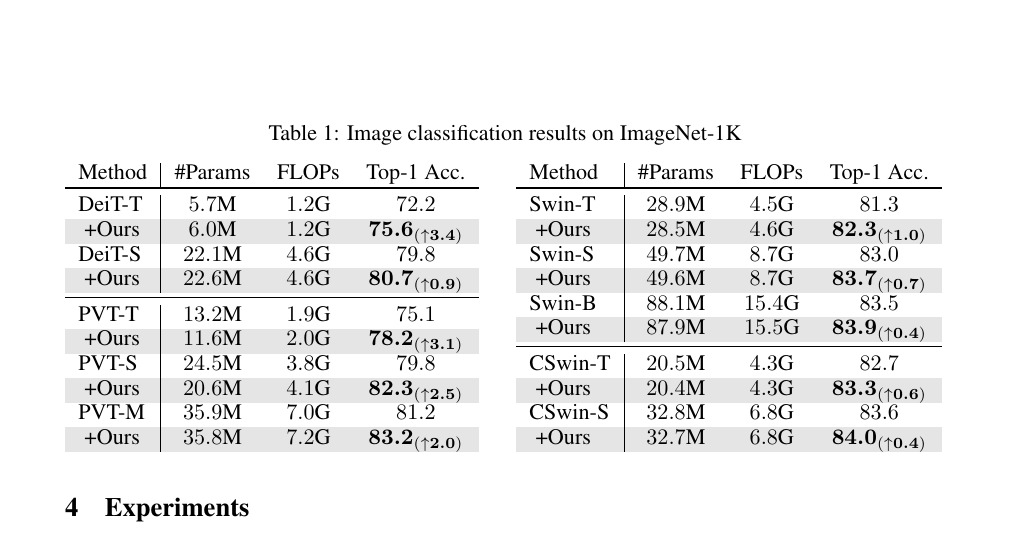
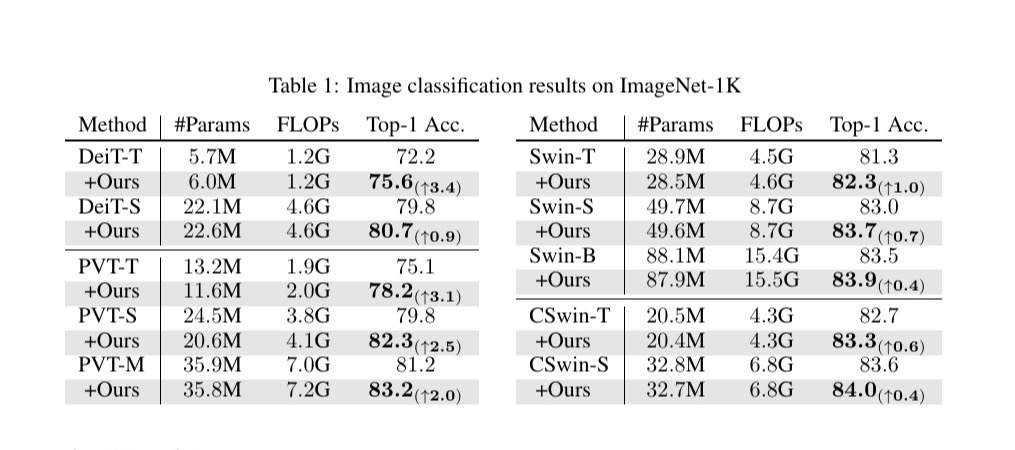
Merge research and selected publications

Changed region(s): [[0.0611, 0.1556, 0.9468, 0.9644]]

diff --git a/index.html b/index.html
@@ -20,7 +20,6 @@
                 <a href="#about">About</a>
                 <a href="#news">News</a>
                 <a href="#research">Research</a>
-                <a href="#publications">Publications</a>
                 <a href="#experience">Experience</a>
                 <a href="#education">Education</a>
                 <a href="#awards">Awards</a>
@@ -82,7 +81,10 @@
         </section>
 
         <section id="research" class="academic-section research-section" aria-labelledby="research-heading">
-            <h2 id="research-heading">Research</h2>
+            <div class="section-title-row">
+                <h2 id="research-heading">Research / Selected Publications</h2>
+                <a class="section-note" href="https://scholar.google.com/citations?user=i7L7Gd4AAAAJ&amp;hl=en" target="_blank" rel="noopener noreferrer">Full publication list → Google Scholar</a>
+            </div>
             <p class="research-overview">I work on robot learning and embodied intelligence, with an emphasis on grounding language and visual observations into robust, data-efficient robot policies.</p>
             <div class="research-list">
                 <article class="research-item">
@@ -150,13 +152,6 @@
                         <p class="research-links"><a href="https://arxiv.org/abs/2511.00833" target="_blank" rel="noopener noreferrer">Paper / arXiv</a><a href="https://neurips.cc/virtual/2025/loc/san-diego/poster/119578" target="_blank" rel="noopener noreferrer">NeurIPS</a></p>
                     </div>
                 </article>
-            </div>
-        </section>
-
-        <section id="publications" class="academic-section" aria-labelledby="publications-heading">
-            <div class="section-title-row">
-                <h2 id="publications-heading">Selected Publications</h2>
-                <a class="section-note" href="https://scholar.google.com/citations?user=i7L7Gd4AAAAJ&amp;hl=en" target="_blank" rel="noopener noreferrer">Full publication list → Google Scholar</a>
             </div>
             <ol class="publications-list">
                 <li class="publication-item">

diff --git a/zh.html b/zh.html
@@ -20,7 +20,6 @@
                 <a href="#about">关于</a>
                 <a href="#news">动态</a>
                 <a href="#research">研究</a>
-                <a href="#publications">论文</a>
                 <a href="#experience">经历</a>
                 <a href="#education">教育</a>
                 <a href="#awards">奖励</a>
@@ -82,7 +81,10 @@
         </section>
 
         <section id="research" class="academic-section research-section" aria-labelledby="research-heading">
-            <h2 id="research-heading">Research</h2>
+            <div class="section-title-row">
+                <h2 id="research-heading">研究 / 精选论文</h2>
+                <a class="section-note" href="https://scholar.google.com/citations?user=i7L7Gd4AAAAJ&amp;hl=zh-CN" target="_blank" rel="noopener noreferrer">完整论文列表 → Google Scholar</a>
+            </div>
             <p class="research-overview">我的研究聚焦机器人学习与具身智能，重点关注如何将语言和视觉观测转化为稳健、数据高效的机器人策略。</p>
             <div class="research-list">
                 <article class="research-item">
@@ -150,13 +152,6 @@
                         <p class="research-links"><a href="https://arxiv.org/abs/2511.00833" target="_blank" rel="noopener noreferrer">论文 / arXiv</a><a href="https://neurips.cc/virtual/2025/loc/san-diego/poster/119578" target="_blank" rel="noopener noreferrer">NeurIPS</a></p>
                     </div>
                 </article>
-            </div>
-        </section>
-
-        <section id="publications" class="academic-section" aria-labelledby="publications-heading">
-            <div class="section-title-row">
-                <h2 id="publications-heading">Selected Publications</h2>
-                <a class="section-note" href="https://scholar.google.com/citations?user=i7L7Gd4AAAAJ&amp;hl=zh-CN" target="_blank" rel="noopener noreferrer">完整论文列表 → Google Scholar</a>
             </div>
             <ol class="publications-list">
                 <li class="publication-item">

diff --git a/styles.css b/styles.css
@@ -109,7 +109,7 @@ a:focus-visible {
 
 .academic-section {
     padding-top: 2.45rem;
-    scroll-margin-top: calc(var(--nav-height) + 1rem);
+    scroll-margin-top: calc(var(--nav-height) + 2rem);
 }
 
 .academic-about {
